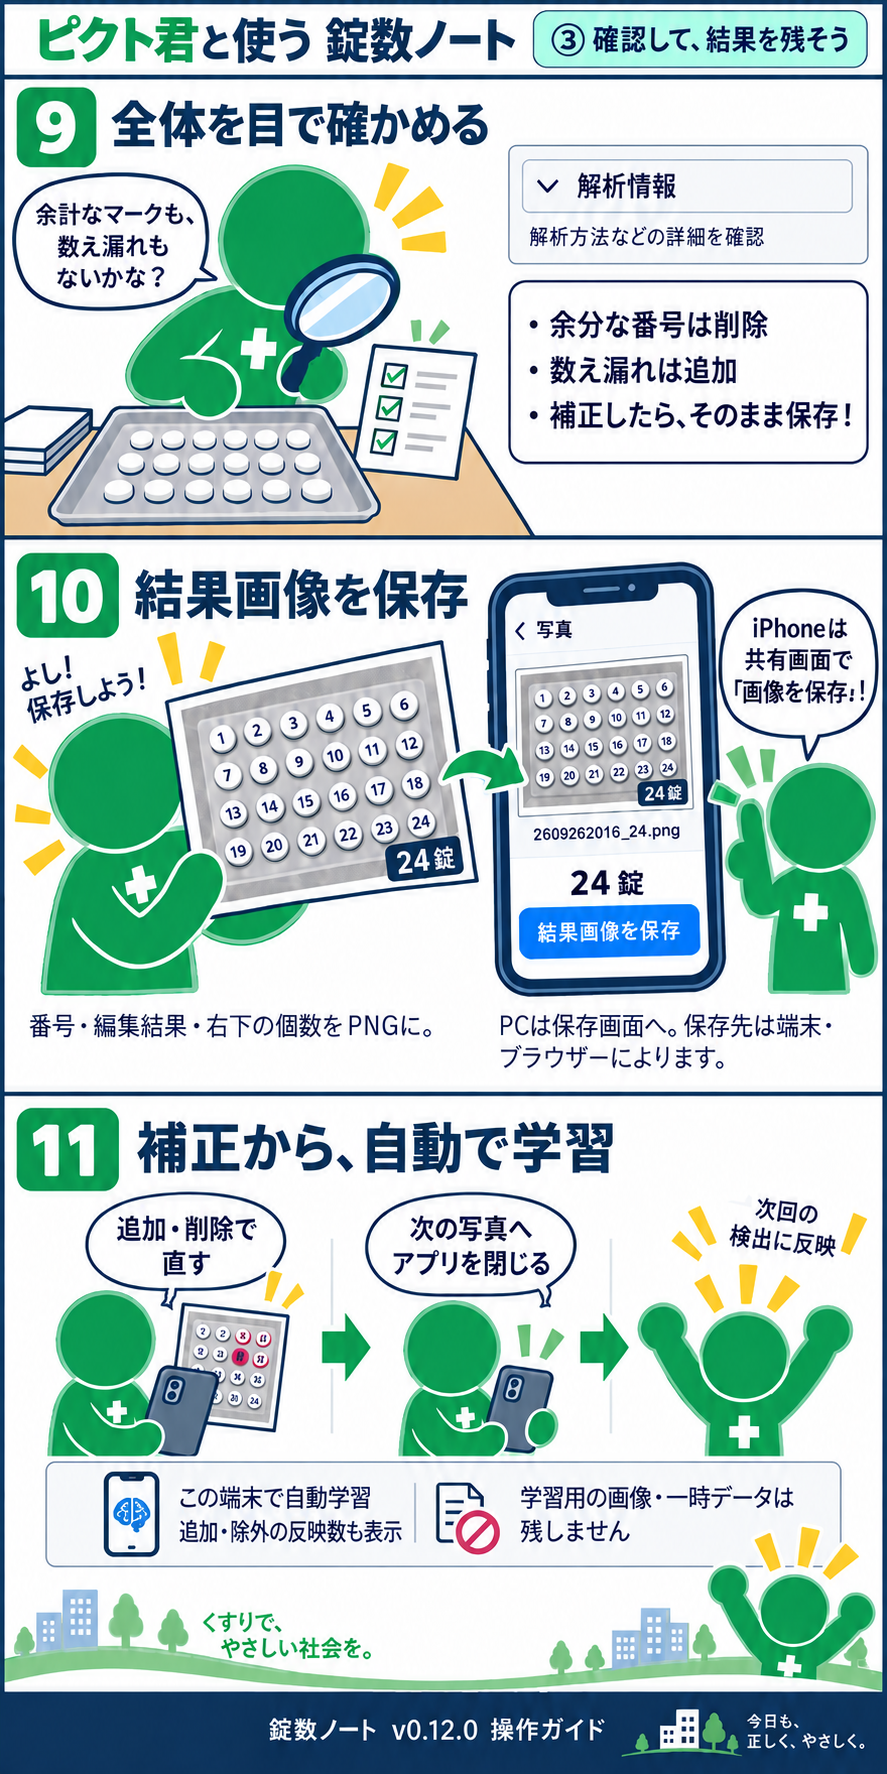
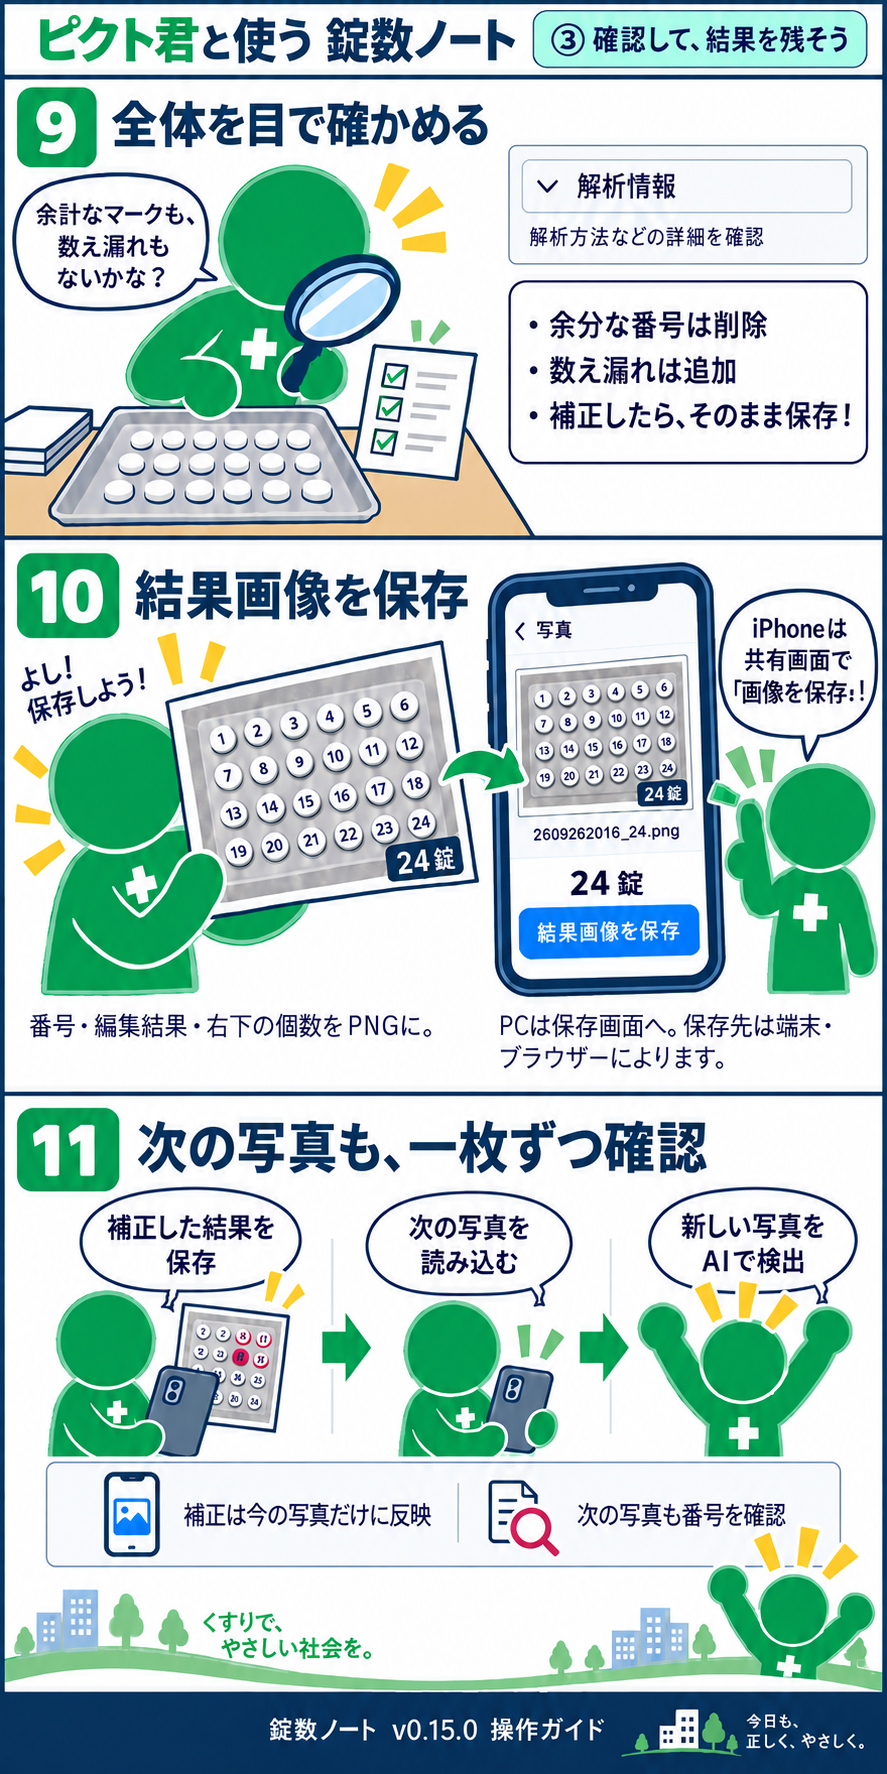
Update public/guide for v0.15.0

diff --git a/public/guide/index.html b/public/guide/index.html
@@ -12,9 +12,9 @@
 <header><h1>ピクト君と使う 錠数ノート</h1><nav aria-label="各章へ移動"><a href="#count">① 撮影・検出</a><a href="#edit">② 編集・拡大</a><a href="#save">③ 確認・保存</a></nav></header>
 <main>
 <figure id="count"><img src="01-count.png" alt="第1章。錠剤・点眼ボトルを選び、撮影または写真を選択。錠剤・点眼それぞれの専用AIが自動で検出を補助。点眼AIは少数写真で学習した試作。緑の輪郭は画像処理、濃い青の丸はAI補助、水色は手動追加。最後は目で確認。"><figcaption><a href="01-count.png" download>第1章の画像を保存</a></figcaption></figure>
-<figure id="edit"><img src="02-edit.png" loading="lazy" alt="第2章。選択、追加、削除で結果を編集。範囲指定と解除は再解析、範囲削除はまとめて削除。元に戻す、やり直す、補正を全リセット。番号付き画像を拡大は閲覧専用、編集画面の拡大バーでは拡大して編集できる。"><figcaption><a href="02-edit.png" download>第2章の画像を保存</a></figcaption></figure>
-<figure id="save"><img src="03-save.png" loading="lazy" alt="第3章。余分な番号を削除し、数え漏れを追加して、そのまま保存。結果画像を保存すると番号と編集結果、右下の個数入りPNGを保存できる。補正から端末内で自動学習。次の画像・終了時に反映し、学習用画像は残しません。"><figcaption><a href="03-save.png" download>第3章の画像を保存</a></figcaption></figure>
+<figure id="edit"><img src="02-edit.png" loading="lazy" alt="第2章。選択中は検出画像を2本指で拡大・縮小、拡大後は1本指で移動。追加・削除へ切り替えて同じ位置で編集できます。元に戻す、やり直す、補正を全リセット。拡大バーと全体を表示でも調整できます。"><figcaption><a href="02-edit.png" download>第2章の画像を保存</a></figcaption></figure>
+<figure id="save"><img src="03-save.png" loading="lazy" alt="第3章。余分な番号を削除し、数え漏れを追加して、そのまま保存。結果画像を保存すると番号と編集結果、右下の個数入りPNGを保存できる。補正は今の写真だけに反映。次の写真もAIで検出し、番号を確認します。"><figcaption><a href="03-save.png" download>第3章の画像を保存</a></figcaption></figure>
 </main>
-<footer><p>錠数ノート v0.13.0 の仕様を確認した操作ガイドです。画面図は説明用に簡略化しています。</p><a href="#">先頭に戻る ↑</a></footer>
+<footer><p>錠数ノート v0.15.0 の仕様を確認した操作ガイドです。画面図は説明用に簡略化しています。</p><a href="#">先頭に戻る ↑</a></footer>
 </body>
 </html>

diff --git a/public/guide/PROVENANCE.md b/public/guide/PROVENANCE.md
@@ -14,3 +14,9 @@ Create one app mascot illustration matching the green faceless pictogram people 
 
 ## v0.11.0
 01-count.png and 03-save.png edited with the built-in image generator. Section 3 now describes always-on target-specific AI; section 11 describes automatic on-device correction learning and deletion of training images. Other sections are preserved. Both outputs visually inspected.
+
+## v0.15.0
+03-save.png edited with built-in ImageGen. Panel 11 now describes saving the corrected result and checking each new photo independently; automatic learning claims were removed. Footer updated to v0.15.0. Output visually inspected.
+
+### v0.15.0 直接ピンチ編集
+02-edit.png was edited with built-in ImageGen and visually inspected. Prompt: preserve page 2/3, green medical pictogram mascot and navy/mint palette; replace range controls and separate zoom view with four panels: basic select/add/delete; pinch and pan only in select mode; undo/redo/reset; edit while keeping zoom and position, zoom slider and fit image. Footer: 確認できたら、保存へ and v0.15.0. Remove all learning references.
